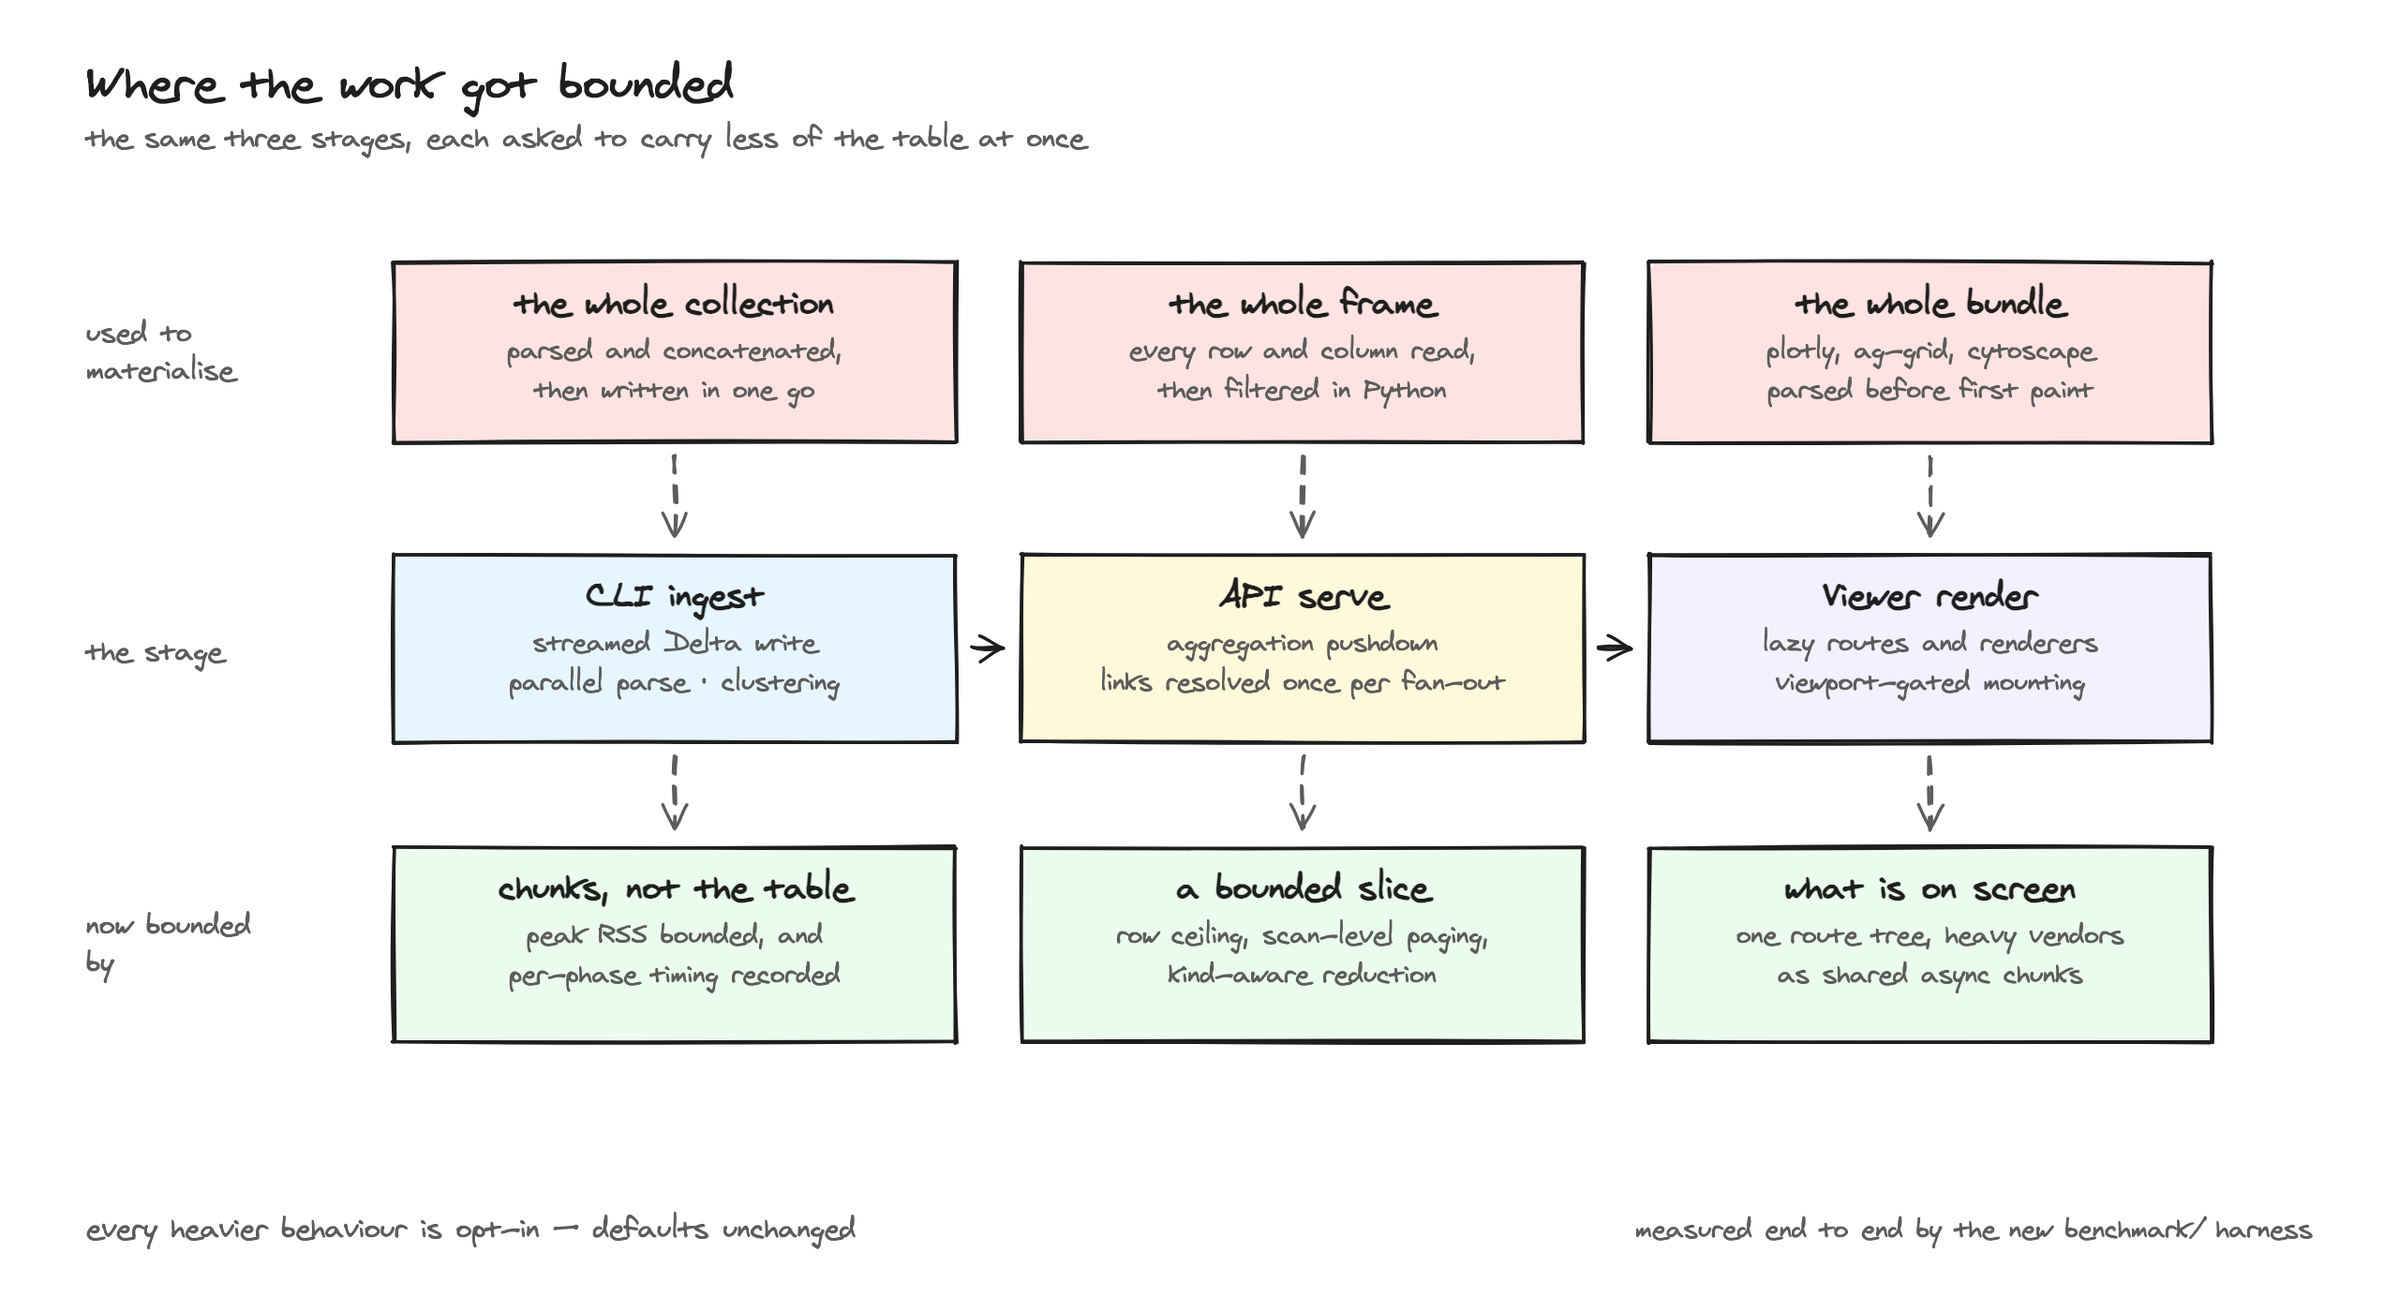
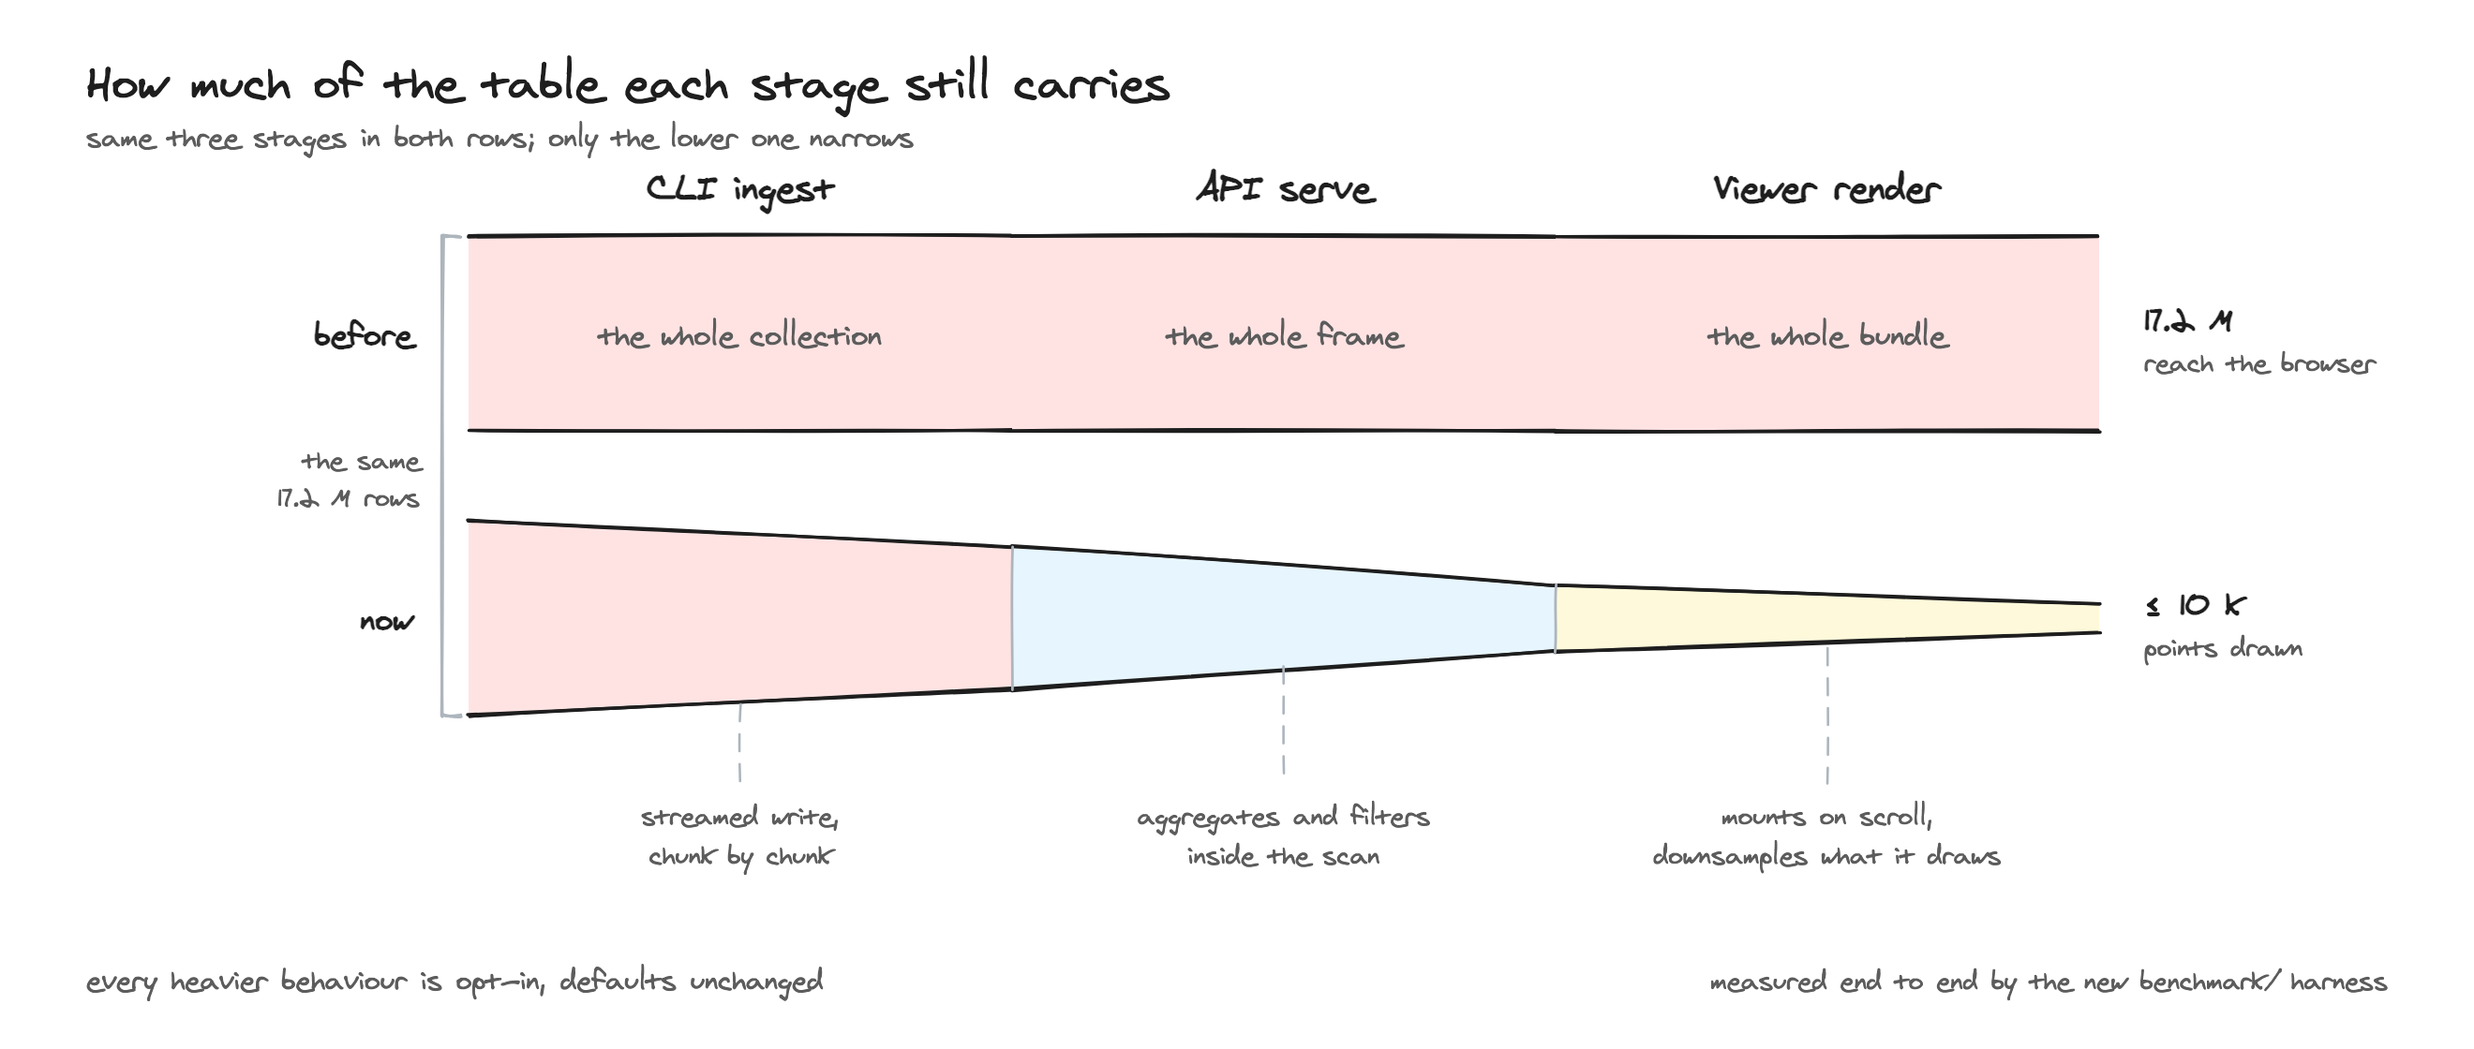
docs(performance): redraw the pipeline schema and show the Load-all control
The pipeline schema was a 3x3 grid of prose boxes, which reads as a table you
have to parse rather than a picture you can take in. It is now two bands over
the same three stage columns: the top one keeps its full width the whole way,
the lower one narrows at each stage. The taper is the only thing to see, and
the labels just name what causes it.

The Load-all button was only described ("an action icon in each panel's hover
cluster"), which is little help when you are looking at the UI trying to find
it. Both the performance page and the dashboard guide now show a real capture
of it: the reduced-view badge beside the panel title, the action cluster on
hover, and the tooltip open.

Also drops the em dash from prose across the pages this branch touches,
keeping it only where a bullet separates a bolded key from its description.

diff --git a/docs/features/performance.md b/docs/features/performance.md
@@ -1,12 +1,12 @@
 ---
 title: "Performance & Scaling"
 icon: material/speedometer
-description: "How Depictio keeps large data collections responsive — from the Delta scan to the browser — and the settings that tune it."
+description: "How Depictio keeps large data collections responsive, from the Delta scan to the browser, and the settings that tune it."
 ---
 
 # :material-speedometer: Performance & Scaling
 
-This page describes how Depictio handles **large data collections** — what the server
+This page describes how Depictio handles **large data collections**: what the server
 does to avoid reading rows it doesn't need, how much data reaches the browser, and which
 settings let you tune that for your deployment. The [measured behaviour](#measured-behaviour)
 section at the bottom records real numbers from a 17-million-row benchmark project.
@@ -15,7 +15,7 @@ The guiding idea is that a dashboard should stay usable at any collection size: 
 pushed as close to the stored data as possible, payloads are bounded by default, and when
 a bound is applied it is made visible rather than hidden.
 
-![Where the work got bounded: at each of the three stages — CLI ingest, API serve, viewer render — what used to be materialised in full, and what bounds it now](../images/v0.12/react/schema_perf_stages.png)
+![How much of the table each stage still carries. The top band is what used to travel the whole pipeline; the lower band narrows at CLI ingest, API serve and viewer render](../images/v0.12/react/schema_perf_stages.png)
 
 ## Opening a dashboard
 
@@ -38,7 +38,7 @@ requesting all of them up front, Depictio loads them as you reach them.
   broken dashboard.
 - **The count covers what is on screen**, not the whole dashboard, so it always reaches
   100%. Scrolling brings more panels in and the count grows to include them, which means
-  it can briefly go backwards — that is work which has just started, not a problem.
+  it can briefly go backwards. That is work which has just started, not a problem.
 - **While the dashboard document itself is being fetched**, the Depictio logo animates in
   the centre of the page; no panels are known yet, so there is nothing to count. Under
   `prefers-reduced-motion` the animation is softened rather than removed.
@@ -58,6 +58,13 @@ parses the code it actually renders.
 By default every data panel is served a **bounded** slice rather than the whole
 collection. Where a bound has been applied, the panel says so, and you can override it.
 
+[![A volcano panel showing the badge 9,900 / 12,011,000 pts, with the Load-all icon at the bottom of the hover action cluster and its tooltip open](../images/react/load_all_light.webp#only-light)](../images/react/load_all_light.webp){target=_blank}
+
+[![A volcano panel showing the badge 9,900 / 12,011,000 pts, with the Load-all icon at the bottom of the hover action cluster and its tooltip open](../images/react/load_all_dark.webp#only-dark)](../images/react/load_all_dark.webp){target=_blank}
+
+*A figure serving 9,900 of 12 million points. The badge sits beside the panel title, and
+the Load-all icon is the bottom entry in the action cluster, which appears on hover.*
+
 - **The Load-all button** — an action icon in each panel's hover cluster (alongside
   metadata, fullscreen and reset) toggles between the reduced view and a full load of every
   point or row. Its tooltip warns that this may be slow on large datasets. Pressing it
@@ -67,7 +74,7 @@ collection. Where a bound has been applied, the panel says so, and you can overr
   default); a per-component `max_points` overrides it for a single figure.
 - **Tables** page at scan level, so a deep page costs the same as a shallow one. Above
   `table_sort_max_rows` (1,000,000 by default) the server serves rows in natural scan
-  order and the **sort control disappears from the column headers** — AG Grid drops the
+  order and the **sort control disappears from the column headers**. AG Grid drops the
   chevron and the click handler rather than offering a sort that silently does nothing.
 - **Advanced visualisations** are reduced according to what their renderer can survive,
   not by a single global rule:
@@ -75,14 +82,14 @@ collection. Where a bound has been applied, the panel says so, and you can overr
     | Policy | Applies to | What happens |
     | --- | --- | --- |
     | Uniform sample | embedding, QQ, lollipop, coverage track | The renderer draws one mark per row and reads no aggregate, so a uniform subset is a faithful, lower-resolution picture. |
-    | Tail-preserving | volcano, MA, Manhattan | Significant rows are kept whole and the dense middle is strided. A uniform sample of a 17M-row DE table keeps almost none of the hits — the plot would become a cloud with nothing to label. |
+    | Tail-preserving | volcano, MA, Manhattan | Significant rows are kept whole and the dense middle is strided. A uniform sample of a 17M-row DE table keeps almost none of the hits, so the plot would become a cloud with nothing to label. |
     | Never sampled | stacked taxonomy, rarefaction, DA barplot, enrichment, sunburst, dot plot, oncoplot, UpSet, hierarchical heatmap, sankey, phylogenetic | These renderers aggregate client-side (per-sample sums, top-N rankings), so a sample changes the reported *values*, not their resolution. |
 
     The never-sampled kinds are served whole up to `advanced_viz_no_sample_max_rows`
     (2,000,000 by default). Past that ceiling the request falls back to a uniform sample
     and the chart is marked with an orange **estimated** badge, so an approximation is
     never presented as a total. The badge also appears on the lollipop plot whenever its
-    rows were sampled — it is uniformly sampled by policy, but it still aggregates those
+    rows were sampled. It is uniformly sampled by policy, but it still aggregates those
     rows into per-gene counts, so the counts are estimates.
 
 ## Server-side work
@@ -123,7 +130,7 @@ stays responsive under concurrent load.
 
 Only figure renders have a Celery path. Tables, cards, interactive components and the
 advanced-viz data endpoint are synchronous handlers, which FastAPI already runs in its own
-thread pool — they never needed the escape hatch.
+thread pool, so they never needed the escape hatch.
 
 See the [environment reference](../installation/env-reference.md) for how to set these.
 
@@ -142,7 +149,7 @@ See the [environment reference](../installation/env-reference.md) for how to set
   `DEPICTIO_INGEST_MULTIQC_PRERENDER=1` on the CLI side; it costs ingest time and S3 storage,
   and only runs on a fresh ingest (on an append the local files cannot reproduce the full
   aggregation, so the existing background build takes over). Collections that never opted in
-  are not penalised — a short-lived marker records that a collection has no prerendered
+  are not penalised: a short-lived marker records that a collection has no prerendered
   figures, so the server does a Redis lookup rather than an S3 round-trip per panel.
 
 ![A MultiQC figure request: the CLI builds and uploads the figures at ingest, the render endpoint probes the S3 prefix before enqueueing a build, and a Redis presence marker spares collections that never opted in](../images/v0.12/react/schema_multiqc_prerender.png)
@@ -165,14 +172,14 @@ See the [environment reference](../installation/env-reference.md) for how to set
 ## Measured behaviour
 
 The numbers below come from a single benchmark run on a linked 3-collection project. They
-describe *this* setup — treat them as an order of magnitude for a comparably sized project,
-not as a specification.
+describe *this* setup, so treat them as an order of magnitude for a comparably sized
+project rather than as a specification.
 
 | | |
 | --- | --- |
 | Dataset | **17,232,000 rows** across 3 linked collections |
 | Size | 0.997 GB raw / **1.492 GB Delta** |
-| Host | Apple M1 Max, 10 CPU, 32 GB — Colima VM 8 vCPU / 20 GB |
+| Host | Apple M1 Max, 10 CPU, 32 GB, on a Colima VM with 8 vCPU / 20 GB |
 | API container | 4 CPU, **1 uvicorn worker, dev mode** |
 | Celery | 4 CPU / 4 workers |
 
@@ -208,7 +215,7 @@ appear; from 8 components up, the first thing to land **is** a chart.
 
 The parenthesised number is the dashboard's full panel count; the leading number is how
 many of those issue a timed render. Passive panels (text, interactive widgets reading
-precomputed specs) are on the page but not measured — so the last row is a 37-panel
+precomputed specs) are on the page but not measured, so the last row is a 37-panel
 dashboard, not a 32-panel one.
 
 ### Changing a filter
@@ -251,7 +258,7 @@ aggregation over the scan, exact), 100 for a table page, 40,000 for a scatter, a
 
 !!! warning "Read these numbers with their caveats"
     - One run, one sample per cell. The `32 (37)` *warm* full load (14.3 s) is slower than
-      its cold equivalent and is unexplained — do not build a scaling claim on that row.
+      its cold equivalent and is unexplained. Do not build a scaling claim on that row.
     - Only the `4 (9)` cold row is a genuine first visit; the other sizes shared an
       already-ingested project.
     - "Cold" means server caches are empty. Delta files may still sit in the OS or MinIO
@@ -274,7 +281,7 @@ All are `DEPICTIO_PERFORMANCE_`-prefixed environment variables; see the
 | `ADVANCED_VIZ_TAIL_P_THRESHOLD` | `0.05` | Significance cutoff below which a volcano/Manhattan row is kept whole. A renderer's own threshold wins over this fallback. |
 | `ADVANCED_VIZ_TAIL_EFFECT_THRESHOLD` | `1.0` | Same, for kinds whose tail is a signed effect size (MA's log2 fold change). |
 | `BOX_SAMPLE_ROWS_PER_GROUP` | `0` | Rows sampled per box-plot group before computing quartiles. `0` computes them exactly. |
-| `BOX_SAMPLE_MAX_GROUPS` | `64` | Group count above which box quartiles are always computed exactly — grouped quantiles get cheaper as cardinality rises. |
+| `BOX_SAMPLE_MAX_GROUPS` | `64` | Group count above which box quartiles are always computed exactly, since grouped quantiles get cheaper as cardinality rises. |
 
 ## Tuning for your deployment
 

diff --git a/docs/usage/guides/dashboard_usage.md b/docs/usage/guides/dashboard_usage.md
@@ -125,7 +125,7 @@ them as you reach them rather than all at once.
 
 !!! tip "Why the count can go backwards"
     The count covers what is **on screen**, not the whole dashboard, so it always
-    completes. Scrolling brings more panels in and the count grows to include them — a
+    completes. Scrolling brings more panels in and the count grows to include them, so a
     number that briefly drops is work which has just started, not a problem.
 
 ### <span style="color: #9966CC;">:material-database-arrow-down:</span> Reduced views and the Load-all button
@@ -133,12 +133,19 @@ them as you reach them rather than all at once.
 Large data collections are not sent to the browser whole. Where a panel is showing a
 reduced view, it says so and offers a way out:
 
+[![A volcano panel with the badge 9,900 / 12,011,000 pts beside its title and the Load-all icon revealed in the hover action cluster](../../images/react/load_all_light.webp#only-light)](../../images/react/load_all_light.webp){target=_blank}
+
+[![A volcano panel with the badge 9,900 / 12,011,000 pts beside its title and the Load-all icon revealed in the hover action cluster](../../images/react/load_all_dark.webp#only-dark)](../../images/react/load_all_dark.webp){target=_blank}
+
+*Hover a panel to reveal its action cluster. **Load all** is the bottom icon, and the badge
+beside the title says how much of the collection you are currently seeing.*
+
 - **Figures** show a badge such as `10,000 / 5,000,000 pts`. Hover the panel and click the
   **Load all** icon (:material-database-arrow-down:) in the action cluster to fetch every
   point; the badge switches to `(all)` and the button toggles back to the reduced view.
   Loading everything can be slow on a very large collection.
 - **Tables** page rows on demand. On tables past roughly a million rows, **sorting is
-  turned off** — the chevron disappears from the column headers rather than offering a
+  turned off**: the chevron disappears from the column headers rather than offering a
   sort that would silently return unsorted rows.
 - **Advanced visualisations** that compute their values from the rows they receive (stacked
   taxonomy, DA barplot, enrichment, oncoplot, …) are normally sent the whole collection. If

diff --git a/docs/installation/env-reference.md b/docs/installation/env-reference.md
@@ -316,9 +316,9 @@ for what each cap does to the rendered result.
 | `DEPICTIO_PERFORMANCE_FIGURE_MAX_LOAD_ROWS` | `500000` | Row ceiling loaded from Delta for a point-plot / code-mode figure. Bypassed when the client requests a full load |
 | `DEPICTIO_PERFORMANCE_TABLE_SORT_MAX_ROWS` | `1000000` | Post-filter row count above which a table is served in natural scan order instead of sorted; the response reports `sort_disabled` so the grid drops the sort affordance. `0` disables the gate |
 | `DEPICTIO_PERFORMANCE_ADVANCED_VIZ_NO_SAMPLE_MAX_ROWS` | `2000000` | Row ceiling for the advanced-viz kinds that must not be sampled. Past it the request falls back to a uniform sample and the chart is marked estimated. `0` disables the ceiling |
-| `DEPICTIO_PERFORMANCE_ADVANCED_VIZ_TAIL_P_THRESHOLD` | `0.05` | Significance cutoff below which a volcano/Manhattan row is kept whole rather than sampled. Fallback only — a renderer's own threshold wins |
+| `DEPICTIO_PERFORMANCE_ADVANCED_VIZ_TAIL_P_THRESHOLD` | `0.05` | Significance cutoff below which a volcano/Manhattan row is kept whole rather than sampled. Fallback only, since a renderer's own threshold wins |
 | `DEPICTIO_PERFORMANCE_ADVANCED_VIZ_TAIL_EFFECT_THRESHOLD` | `1.0` | Same, for kinds whose tail is a signed effect size (MA's log2 fold change) |
-| `DEPICTIO_PERFORMANCE_BOX_SAMPLE_ROWS_PER_GROUP` | `0` | Rows sampled per box-plot group before computing quartiles; `0` computes them exactly. Trades a sort for an extra scan — see the tuning notes |
+| `DEPICTIO_PERFORMANCE_BOX_SAMPLE_ROWS_PER_GROUP` | `0` | Rows sampled per box-plot group before computing quartiles; `0` computes them exactly. Trades a sort for an extra scan, so see the tuning notes |
 | `DEPICTIO_PERFORMANCE_BOX_SAMPLE_MAX_GROUPS` | `64` | Group-count ceiling above which box quartiles are always computed exactly (grouped quantiles get cheaper as cardinality rises) |
 
 ---

diff --git a/docs/changelog/README.md b/docs/changelog/README.md
@@ -17,7 +17,7 @@ hide:
 
 ## **[v1.3.0](https://github.com/depictio/depictio/releases/tag/v1.3.0)** (July 27, 2026)
 
-!!! success "Performance pass across ingest, serve and render — the heavier behaviours stay off by default"
+!!! success "Performance pass across ingest, serve and render, with the heavier behaviours off by default"
 
 ### Docker Images
 
@@ -34,7 +34,7 @@ ghcr.io/depictio/depictio:1.3.0
 ### **🚀 Improvements**
 
 * **Less data leaves storage** — the database reads only the rows and columns it needs: box plots and histograms are computed as an exact query over the Delta scan without materialising a single row, and filters are pushed into the scan rather than applied after it.
-* **Bounded responses** — the server returns a capped slice instead of the whole table, and advanced visualisations are reduced only in ways their renderer can survive — never silently for the charts that aggregate client-side, which are badged *estimated* instead.
+* **Bounded responses** — the server returns a capped slice instead of the whole table, and advanced visualisations are reduced only in ways their renderer can survive. The charts that aggregate client-side are never silently sampled; they are badged *estimated* instead.
 * **Lighter first paint** — the browser downloads only the code the current page needs, and concurrent WebGL contexts are capped so markers stop vanishing on dense dashboards.
 * **Opt-in ingest tuning** — `DEPICTIO_INGEST_*` flags trade memory or CPU for ingest wall-time, including MultiQC figure prerendering that removes the cold build on a collection's first open.
 
